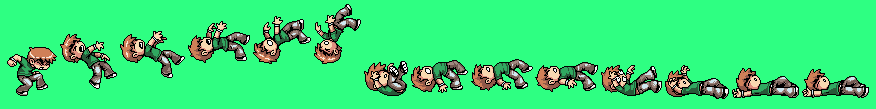
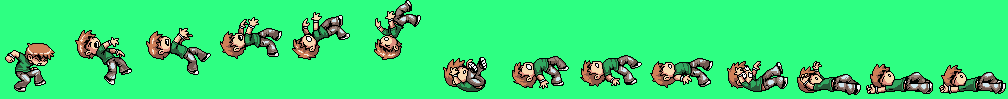
added functionality of clearing intervals

Changed region(s): [[0.0, 0.0, 1.0, 0.9697]]

diff --git a/assets/javascript/game.js b/assets/javascript/game.js
@@ -1,45 +1,56 @@
 $(document).ready(function() {
     var scene = 0;
     // var positionX = 0
-    var playableCharacters = ["scott", "ramona", "stills", "kim"]
-    var player = ""
+    var playableCharacters = ["scott", "ramona", "stills", "kim"];
+    var player = "";
+    var runningID=[]    
     var scott = {
         hp: 151,
         basicAttack: "PUNCH",
         specialAttack: "FLURRY",
-        attack1: function(){motionTemplate (100, 60, 420, false)},
+        attack1: function(){motionTemplate (100, 60, 420, false, "scott", "attack1")},
     //     height: 100px;
     //     width: 60px;
     // background: url('../images/scott-attack1.png') 0px 0px; 
-        attack2: function(){motionTemplate(100, 60, 960, false)},
+        attack2: function(){motionTemplate(100, 60, 960, false, "scott", "attack2")},
     //     height: 61px;
     //     width: 60px;
     // background: url('../images/scott-attack2.png') 0px 0px; 
+        damaged: function(){motionTemplate(100, 12, 156, false, "scott", "damaged")}
     }
     
-    function motionTemplate(time, stepX, lastframe, loop) {            
+    function motionTemplate(time, stepX, lastframe, loop, who, action) {            
         const interval = time;
-        var positionX = 0;        
-        var tID = setInterval(function(){
-            if (positionX !== lastframe) {
-                positionX = positionX + stepX;                
-            } else if (loop) {
-                positionX = 0;
-            } else {
-                stopAnimate(tID)
-            }
-            $("#kim-idle").css("background-position", "-"+positionX+"vw 0vw");
+        var positionX = 0;
+        var ID = setInterval(function(){            
+                if (positionX !== lastframe) {
+                    positionX = positionX + stepX;                
+                } else if (loop) {
+                    positionX = 0;
+                } else {
+                clearInterval(ID);}
+            $("#"+who+"-"+action).css("background-position", "-"+positionX+"vw 0vw");            
         }, interval);
+        runningID.push(ID);
+        console.log(runningID);
+    }
+
+    function clearAllIntervals(){
+        for (i=0;i<runningID.length;i++){
+            clearInterval(runningID[i]);
+        }
     }
 
     var ramona = {}
-    var stills = {}
+    var stills = {
+        victory: function(){motionTemplate(100, 8, 32, true, "stills", "victory")}
+    }
     var kim = {
-        idle : function(){motionTemplate(100, 5, 15, true)},
+        idle : function(){motionTemplate(100, 5, 15, true, "kim", "idle")},
     }
     var enemies = ["matthew","envy"]
     var matthew = {
-        idle: function(){motionTemplate(100, 8, 40, true)}
+        idle: function(){motionTemplate(100, 8, 40, true, "matthew", "idle")} 
     }
     var envy = {
         idle : function() {
@@ -188,8 +199,10 @@ $(document).ready(function() {
     $("#loading-screen").fadeIn(1000, function (){        
         $(document).on("click keypress", function (){
             if (scene == 0) {                
-                $("#loading-screen").fadeOut("slow", function(){                    
+                $("#loading-screen").fadeOut("slow", function(){
+                    $("#title-screen").attr("src", "assets/images/title-top.png")
                     $("#title-screen").fadeIn("slow", function(){
+                        $("#logo").attr("src","assets/images/logo.png")
                         $("#logo").fadeIn("slow");
                         $("#logo").animate({top: '+=1vh'}, 1000)
                         $("#logo").animate({top: '-=1vh'}, 1000)
@@ -211,6 +224,7 @@ $(document).ready(function() {
             scene = 2;
             $("#logo").fadeOut(1000);            
             $("#title-screen").fadeOut(1000, function(){
+                $("#character-select").attr("src","assets/images/char-select.jpg")
                 $("#character-select").fadeIn("slow");
                 $.each(playableCharacters, characterFadeIn)
                 $.each(playableCharacters, hoverTrigger)
@@ -221,8 +235,15 @@ $(document).ready(function() {
     })
 
     //
-    function characterFadeIn(index, value){        
+    function characterFadeIn(index, value){
         $("#"+value+"-container").fadeIn("slow");
+        if (value == "kim") {
+            $("#kim-idle").css("background", "url('assets/images/kim/kim-idle.png') 0px 0px")
+            $("#kim-idle").css("background-size", "20vw 10.33vw")
+        }else{
+            $("#"+value+"-idle").attr("src","assets/images/"+value+"/"+value+"-idle.gif")
+        }
+        $("#"+value+"-running").attr("src","assets/images/"+value+"/"+value+"_dash.gif")
     }
     function characterFadeOut(index, value){        
         $("#"+value+"-container").fadeOut("slow");
@@ -234,7 +255,7 @@ $(document).ready(function() {
         if (scene==2 && player=="") {
             $("#"+char+"-idle").toggle();
             $("#"+char+"-running").toggle();
-            $("#"+char+"-stats").toggle();            
+            $("#"+char+"-stats").toggle();
         }
     }
 
@@ -249,7 +270,15 @@ $(document).ready(function() {
             $("#"+value+"-idle").hide();
             $("#"+value+"-running").hide();
             $("#"+value+"-stats").hide();
-            $("#"+value+"-victory").toggle();
+            if(player !== "stills"){
+                $("#"+value+"-victory").attr("src","assets/images/"+value+"/"+value+"_victory.gif")
+                $("#"+value+"-victory").toggle();                
+            } else if (player == "stills"){
+                $("#stills-victory").css("background", "url('assets/images/stills/stills-victory.png') 0px 0px")
+                $("#stills-victory").css("background-size", "40vw 11vw")
+                stills.victory();
+            }
+            $("#okay").attr("src","assets/images/okay.png");
             $("#okay").fadeIn(200);
             $("#okay").fadeOut(200);
             $("#okay").fadeIn(200);
@@ -260,6 +289,7 @@ $(document).ready(function() {
             $("#okay").fadeOut(200, function(){
                 $.each(playableCharacters, characterFadeOut);
                 $("#character-select").fadeOut("slow");
+                clearAllIntervals();
             });
         }
     }

diff --git a/index.html b/index.html
@@ -10,19 +10,22 @@
 
     <body>
 
-
+        
+        <!-- <p id="title">click me</p> -->
         <div id="wrapper">
             <img id=filler src="assets/images/Place-Holder.jpg">
             <img src="assets/images/vbi.PNG"         alt="loading-screen"               id="loading-screen"   class="background" hidden>
-            <img src="assets/images/title-top.png"   alt="title-screen"                 id="title-screen"     class="background" hidden>
-            <img src="assets/images/logo.png"        alt="logo"                         id="logo"             class="layer2" hidden>
-            <img src="assets/images/char-select.jpg" alt="char-select-bg"               id="character-select" class="background" hidden>
-            <img src="assets/images/okay.png"        alt="okay"                         id="okay"             class="layer2" hidden>
+            <img src="" alt="title-screen"                 id="title-screen"     class="background" hidden>
+            <img src=""        alt="logo"                         id="logo"             class="layer2" hidden>
+            <img src="" alt="char-select-bg"               id="character-select" class="background" hidden>
+            <img src=""        alt="okay"                         id="okay"             class="layer2" hidden>
 
             <div                                                                        id="scott-container"  class="scott layer2"  hidden>
-                <img src="assets/images/scott/scott_idle.gif" alt="scott-idle"          id="scott-idle"       class="scott layer2" >
-                <img src="assets/images/scott/scott_dash.gif" alt="scott-running"       id="scott-running"    class="scott layer2" hidden>
-                <img src="assets/images/scott/scott_victory.gif" alt="scott-victory"    id="scott-victory"    class="scott layer2" hidden>
+                <img src="" alt="scott-idle"          id="scott-idle"       class="scott layer2" >
+                <img src="" alt="scott-running"       id="scott-running"    class="scott layer2" hidden>
+                <img src="" alt="scott-victory"    id="scott-victory"    class="scott layer2" hidden>
+                <p id="scott-block" class="scott layer2" hidden></p>
+                <p id="scott-damaged" class="scott layer2" hidden></p>
             </div>
             <div                                                                        id="scott-stats"      class="scott layer3" hidden>
                 <h1>SCOTT PILGRIM</h1>
@@ -33,9 +36,9 @@
             </div>
             
             <div                                                                        id="ramona-container" class="ramona layer2" hidden>
-                <img src="assets/images/ramona/ramona-idle.gif" alt="ramona-idle"       id="ramona-idle"      class="ramona layer2" >
-                <img src="assets/images/ramona/ramona_dash.gif" alt="ramona-running"    id="ramona-running"   class="ramona layer2" hidden>
-                <img src="assets/images/ramona/ramona_victory.gif" alt="ramona-victory"    id="ramona-victory"    class="ramona layer2" hidden>
+                <img src="" alt="ramona-idle"       id="ramona-idle"      class="ramona layer2" >
+                <img src="" alt="ramona-running"    id="ramona-running"   class="ramona layer2" hidden>
+                <img src="" alt="ramona-victory"    id="ramona-victory"    class="ramona layer2" hidden>
             </div>
             <div                                                                        id="ramona-stats"      class="ramona layer3" hidden>
                 <h1>RAMONA FLOWERS</h1>
@@ -46,9 +49,9 @@
             </div>
             
             <div                                                                        id="stills-container" class="stills layer2" hidden>
-                <img src="assets/images/stills/stills_idle.gif" alt="stills-idle"       id="stills-idle"      class="stills layer2" >
-                <img src="assets/images/stills/stephen_dash.gif" alt="stills-running"   id="stills-running"   class="stills layer2" hidden>
-                <img src="assets/images/stills/stephen_dash.gif"                                                                      id="stills-victory"    class="stills layer2" hidden>
+                <img src="" alt="stills-idle"       id="stills-idle"      class="stills layer2" >
+                <img src="" alt="stills-running"   id="stills-running"   class="stills layer2" hidden>
+                <p id="stills-victory" class="stills layer2"></p>
             </div>
             <div                                                                        id="stills-stats"      class="stills layer3" hidden>
                 <h1>STEPHEN STILLS</h1>
@@ -60,8 +63,8 @@
             
             <div                                                                        id="kim-container" class="kim layer2" hidden>
                 <p                                                                      id="kim-idle"      class="kim layer2" ></p>
-                <img src="assets/images/kim/kim_walk.gif" alt="kim-running"             id="kim-running"   class="kim layer2" hidden>
-                <img src="assets/images/kim/kim_victory.gif" alt="kim-victory"          id="kim-victory"   class="kim layer2" hidden>
+                <img src="" alt="kim-running"             id="kim-running"   class="kim layer2" hidden>
+                <img src="" alt="kim-victory"          id="kim-victory"   class="kim layer2" hidden>
             </div>
             <div                                                                        id="kim-stats"     class="kim layer3" hidden>
                 <h1>KIM PINE</h1>
@@ -83,7 +86,7 @@
             <source src="assets/music/Extras - 02 Character Select.mp3" type="audio/mp3">
         </audio> -->
 
-        <!-- <script type="text/javascript" src="assets/javascript/game.js"></script> -->
-        <script type="text/javascript" src="assets/javascript/animation.js"></script>
+        <script type="text/javascript" src="assets/javascript/game.js"></script>
+        <!-- <script type="text/javascript" src="assets/javascript/animation.js"></script> -->
     </body>
 </html>

diff --git a/assets/css/style.css b/assets/css/style.css
@@ -8,13 +8,6 @@ body {
     color: #eab931;
 }
 
-#matthew-running {    
-    height: 9.5vw;
-    width: 8vw;
-    background: url('../images/matthew/matthew-idle.png') 0px 0px;
-    background-size: 48vw 9.5vw;
-}
-
 h1{
     position: relative;
     color: #F3D46A;
@@ -107,8 +100,6 @@ h1{
 #kim-idle {    
     height: 10.33vw;
     width: 5vw;
-    background: url('../images/kim/kim-idle.png') 0px 0px;
-    background-size: 20vw 10.33vw;
 }
 
 #ramona-running, #scott-running, #stills-running, #kim-running{        
@@ -152,7 +143,7 @@ h1{
     right: 48vw;
 }
 
-#ramona-victory, #scott-victory, #stills-victory, #kim-victory{
+#ramona-victory, #scott-victory, #kim-victory{
     height: 12vw;
     width: auto;
 }
@@ -162,12 +153,38 @@ h1{
     top: -0.3vw;
 }
 
-#ramona-victory, #stills-victory, #kim-victory {
+#ramona-victory, #kim-victory {
     left: -1vw;
     top: -1.6vw;
 }
 
+#stills-victory {    
+    height: 11vw;
+    width: 8vw;
+}
+
+#scott-block {    
+    height: 9.5vw;
+    width: 7vw;
+    background: url('../images/scott/scott-block.png') 0px 0px;
+    background-size: 49vw 9.5vw;
+}
+
+#scott-damaged {    
+    height: 16.5vw;
+    width: 12vw;
+    background: url('../images/scott/scott-damaged.png') 0px 0px;
+    background-size: 168vw 16.5vw;
+}
+
 #matthew-idle {    
+    height: 9.5vw;
+    width: 8vw;
+    background: url('../images/matthew/matthew-idle.png') 0px 0px;
+    background-size: 48vw 9.5vw;
+}
+
+#matthew-running {    
     height: 9.5vw;
     width: 8vw;
     background: url('../images/matthew/matthew-idle.png') 0px 0px;

diff --git a/assets/javascript/animation.js b/assets/javascript/animation.js
@@ -5,30 +5,32 @@ $(document).ready(function() {
     var frame = 0
 
     // $("#title").on("click", function() {
-    //     frame--;    
-            // $("#matthew-idle").css("width", width+"px");
+    //     frame--;
+    //     positionX = positionX - 72;    
+    //         // $("#stills-victory").css("width", width+"px");
             
-    //     $("#matthew-idle").css("background-position", "-"+positionX+"px -"+positionY+"px");
+    //     $("#stills-victory").css("background-position", "-"+positionX+"px -"+positionY+"px");
     //     $("#title").text(frame +" "+ positionX +" "+ positionY);
     // })
 
     
-var matthew = {idle: function(){
+var stills = {victory: function(){
         // var width = 100;
         const interval = 100;
-        frame++;
-        setInterval(function(){    
-            // $("#matthew-idle").css("width", width+"px");
-        if (positionX !== 40) {
+        // frame++;
+        var tID=setInterval(function(){    
+            // $("#stills-victory").css("width", width+"px");
+        if (positionX !== 32) {
             positionX = positionX + 8;
         } else {
             positionX = 0;
+            // stopAnimate(tID);
         }
-        $("#matthew-idle").css("background-position", "-"+positionX+"vw 0px");
+        $("#stills-victory").css("background-position", "-"+positionX+"vw 0px");
     }, interval);}
     // }
 
 }
-$("#matthew-idle").on("click", matthew.idle)
+$("#stills-victory").on("click", stills.victory)
 
 })
